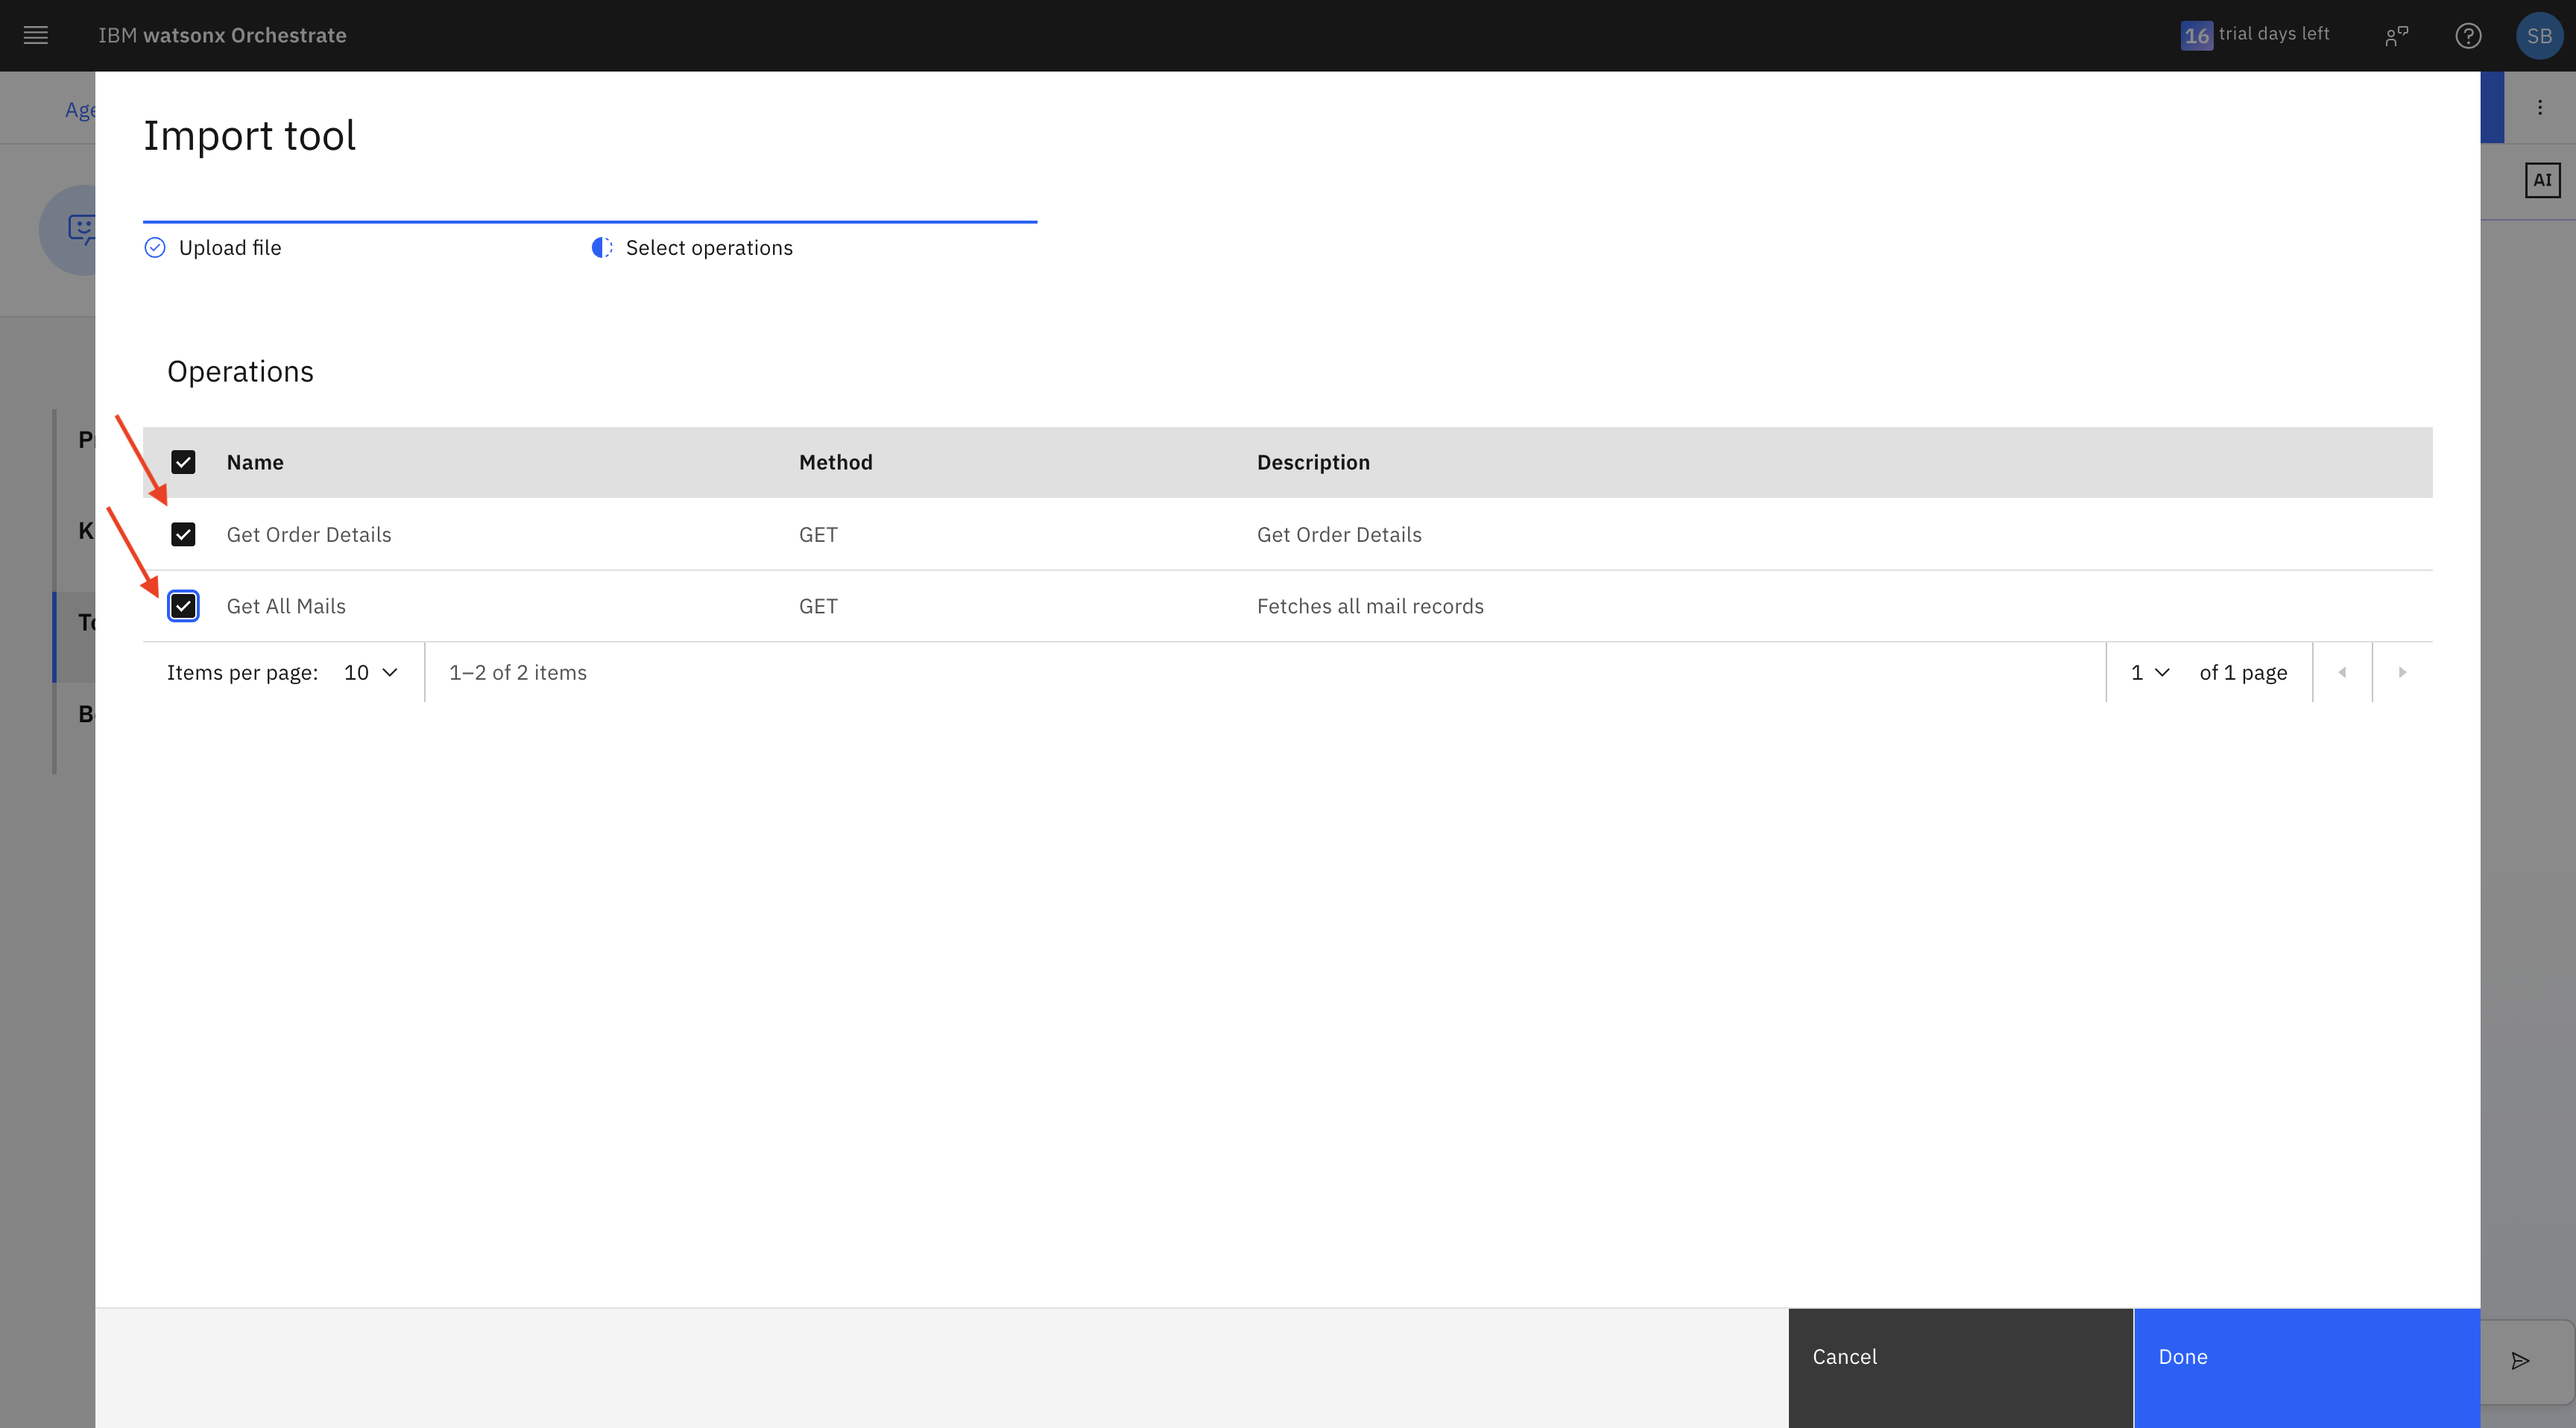
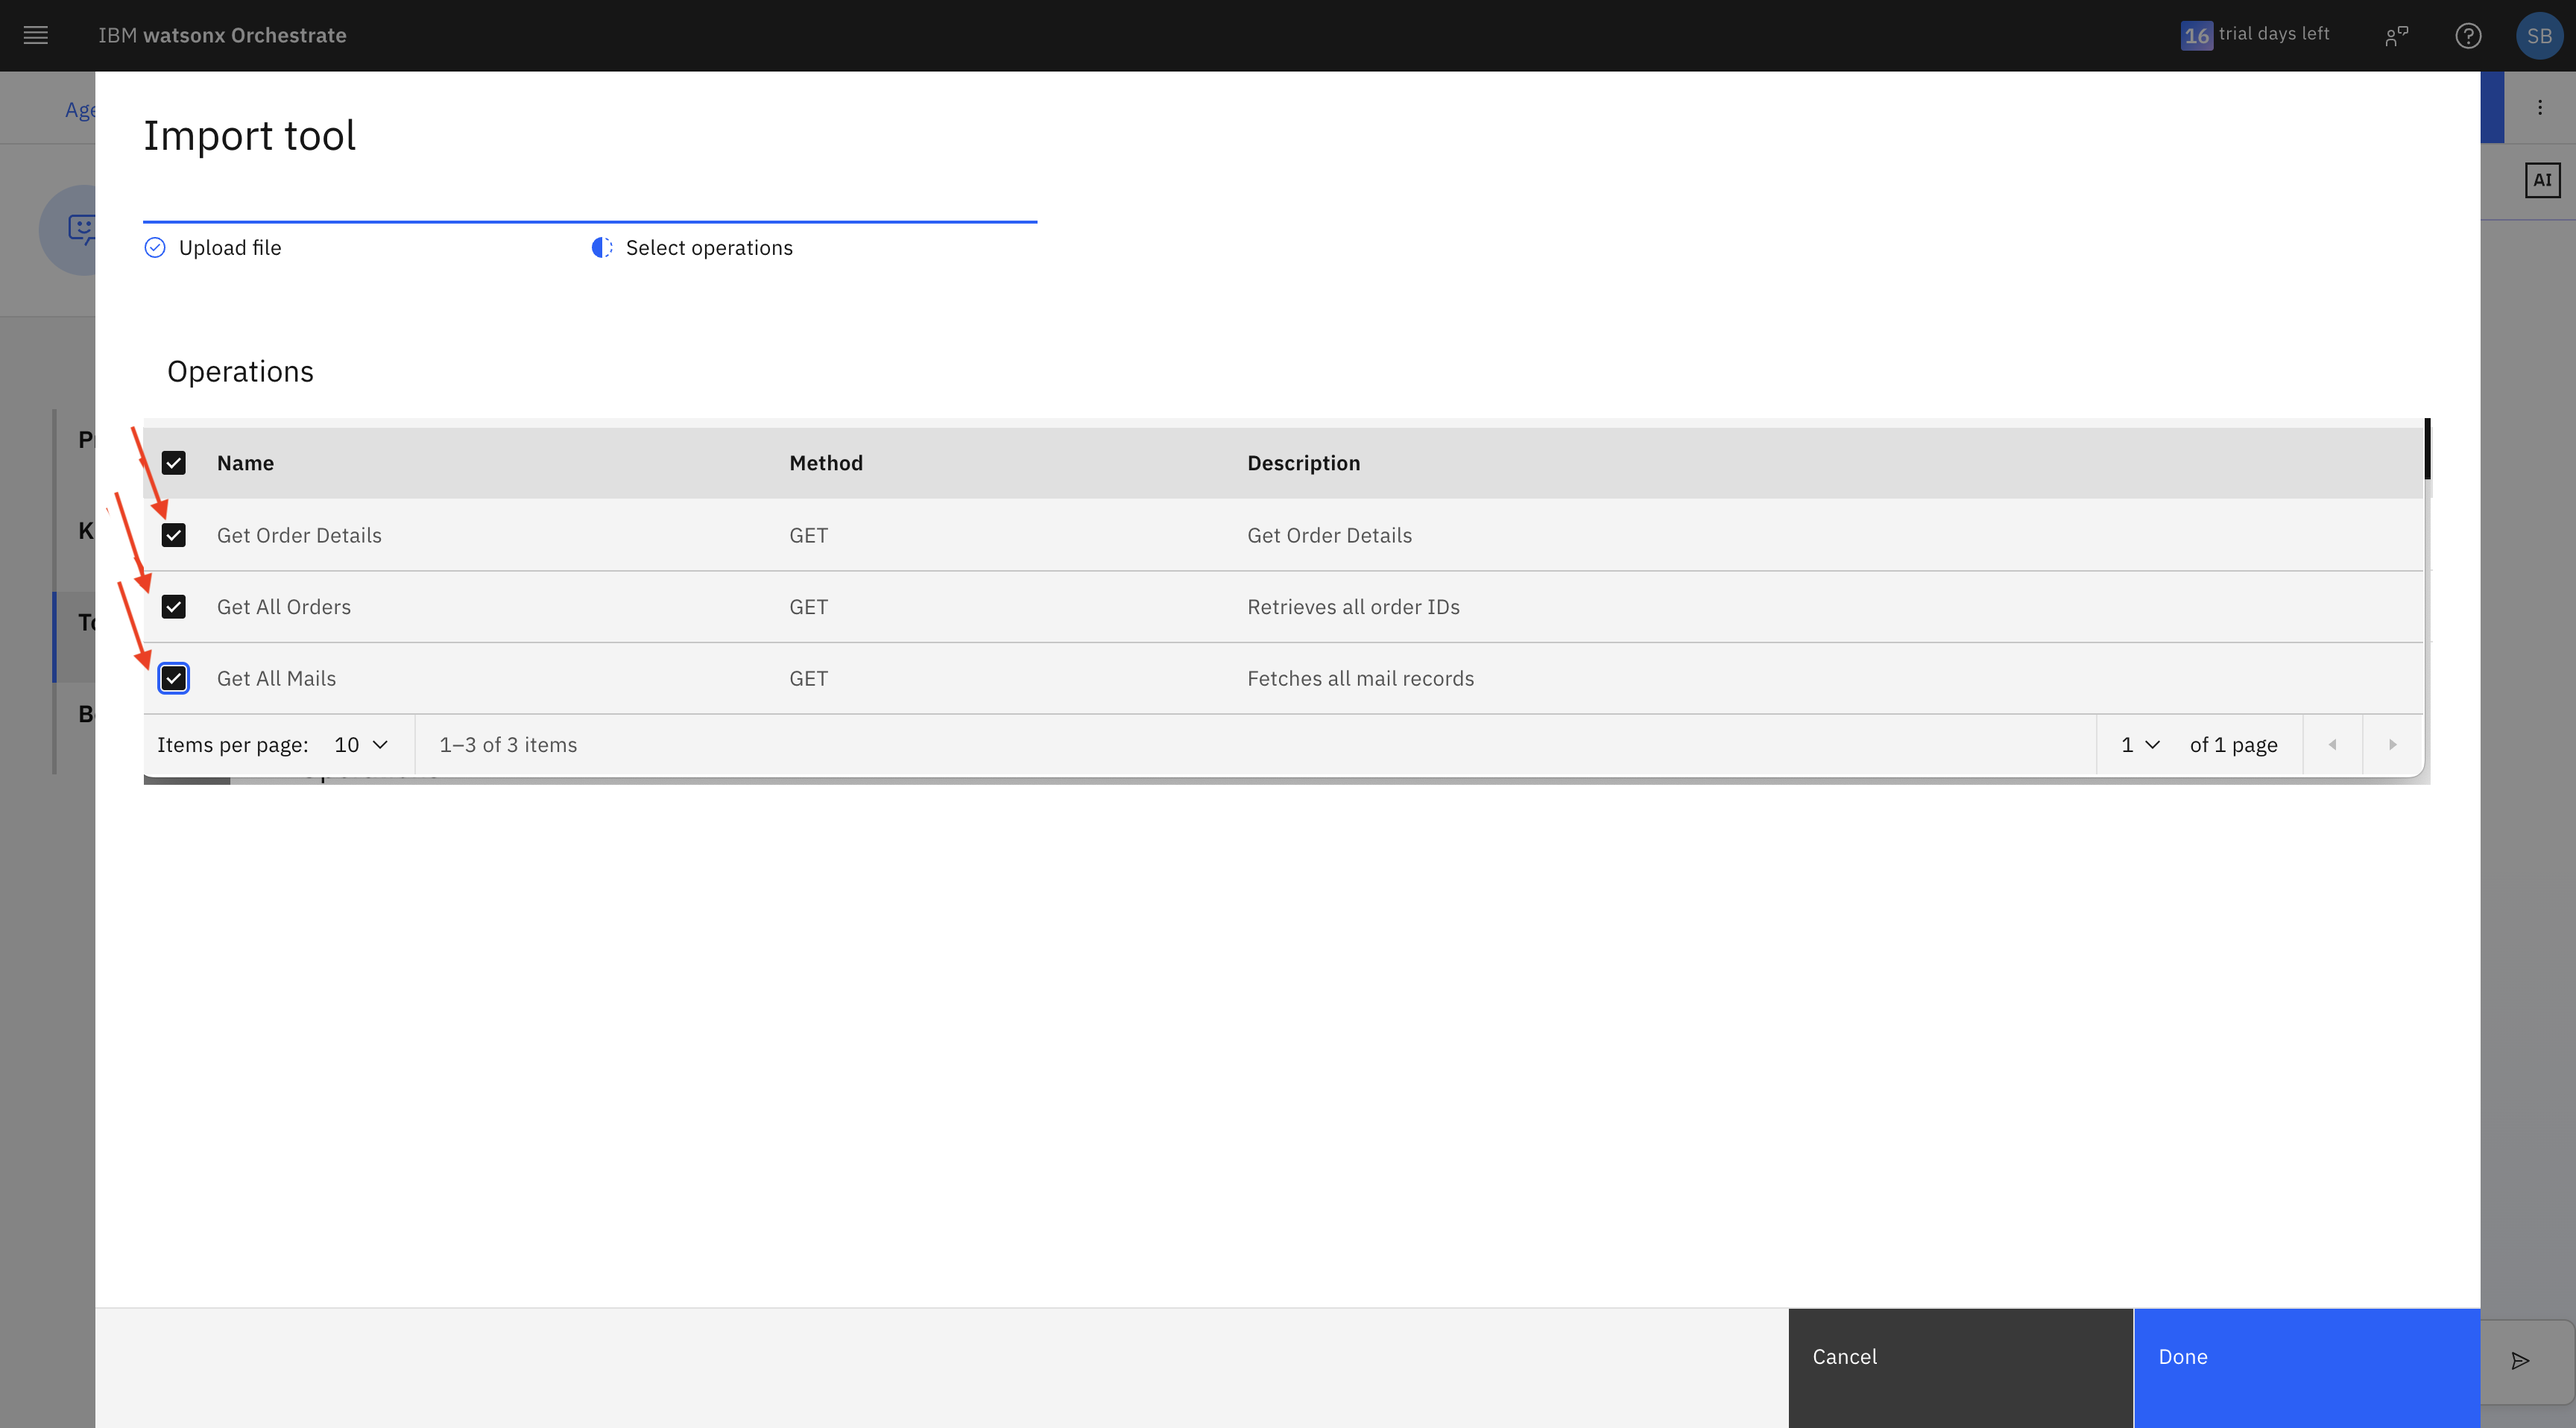
Updated Readme

diff --git a/usecases/O2C-Automation-lab/practitioner_docs/hands-on-lab.md b/usecases/O2C-Automation-lab/practitioner_docs/hands-on-lab.md
@@ -173,7 +173,7 @@ For purposes of the Order-to-Cash Agent, you will use the **Import** option to i
 
 ![wxo tool import openapi](./images/img2.png) 
 
-18. Next, select the checkboxes for the **Get Order Details** and **Get All Mails** operations and click **Done**.
+18. Next, select the checkboxes for the **Get Order Details**, **Get All Orders** and **Get All Mails** operations and click **Done**.
 
 ![wxo tool import operations](./images/img5.png) 
 
@@ -208,10 +208,10 @@ When a user initiates a conversation or asks a question containing the keyword
     ```The selected email address is not in the list. Please choose a valid one from above.```
     * If valid, proceed to the next step.
 
-### **Step 3**: Ask for Order ID to get the order update.
+### **Step 3**: Display all the orders from 'get All Order details' and Ask for Order ID to get the order update.
 * **Prompt**:
-    ```Please enter the Order ID for which you want to check the order update.```
-* **Action**: Wait for user input.
+    ```Here are the order details, please enter the Order ID for which you want to check the order update.```
+* **Action**: Display the all the order-ids and Wait for user input.
 
 ### **Step 4**: Display Order Update
 * **Action**: Trigger the get_order_details_po_get tool with the provided Order ID.
@@ -268,18 +268,12 @@ Observe the response which was based on the information returned by the Mail too
 ![wxo tool mails](./images/img7.png) 
 ![wxo tool mails](./images/img8.png) 
 
-22. Test the **Customer Support Agent** further by giving the order_id to fetch the order details and later draft and send an email.
-You can use the order_ids given below to test:
-```
-716484927
-```
-```
-716000927
-```
+22. Test the **Customer Support Agent** further by selecting the order_id to fetch the order details and later draft and send an email.
 
 Again, observe the response and expand the **Show Reasoning** link to trace through the agent's reasoning which in this case correctly triggered the **Get Order Details** tool.
 
-![wxo tool order](./images/img9.png) 
+![wxo tool order](./images/img9.1.png)
+![wxo tool order](./images/img9.png)  
 ![wxo tool order](./images/img10.png)
 
 23. At this point, you are ready to deploy your Agent. To do so, scroll to the bottom of the configuration page and make sure the slide bar next to Show agent is disabled. Click the **Deploy** button to deploy the agent and makes it available to be used as a collaborator agent.
@@ -508,13 +502,6 @@ Question:
 ![wxo chat q1](./images/img26.png)
 
 45. Expand the **Show Reasoning** and **Step 1** sections to investigate the agent's reasoning in retrieving the response from **customer support agent** tool and continue to have a conversation with the customer support workflow. 
-You can use the order_id given below to test:
-```
-716484927
-```
-```
-716000927
-```
 
 ![wxo chat q1 reasoning](./images/img26copy.png)
 ![wxo chat q1](./images/img27.png)
